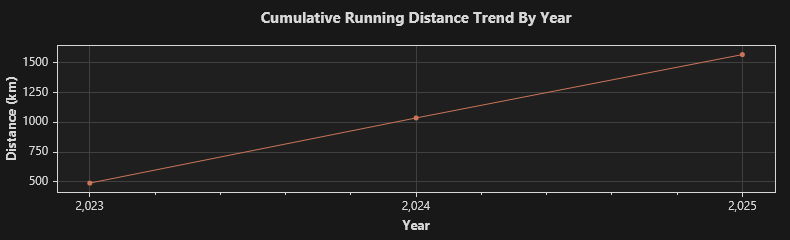
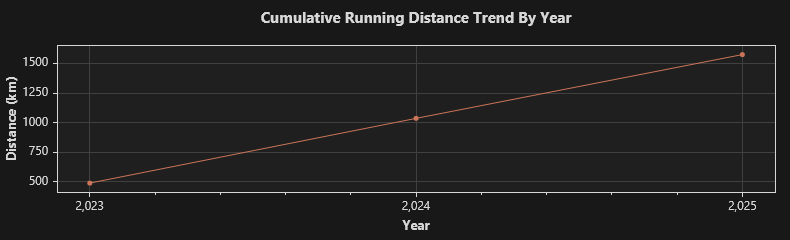
update

diff --git a/trend.md b/trend.md
@@ -1,4 +1,4 @@
-### Total: 263 days, 1567.35 km.
+### Total: 264 days, 1574.02 km.
 
 
 ![Monthly](https://github.com/prime167/MyRunningLog/blob/main/data/CumulativeTrendByMonth.png)
